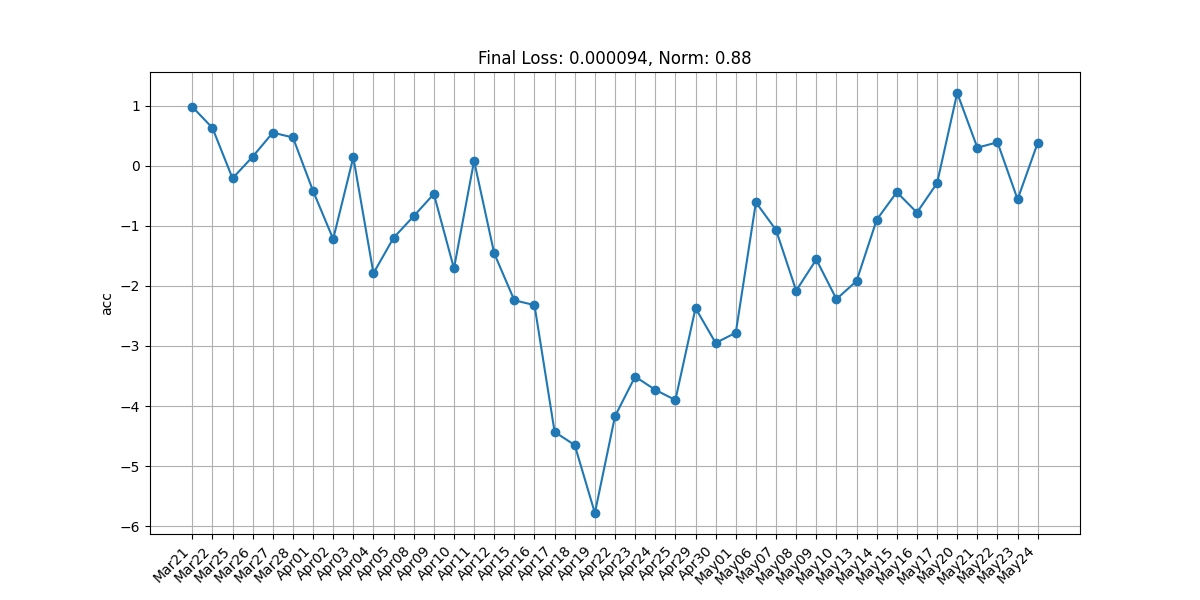
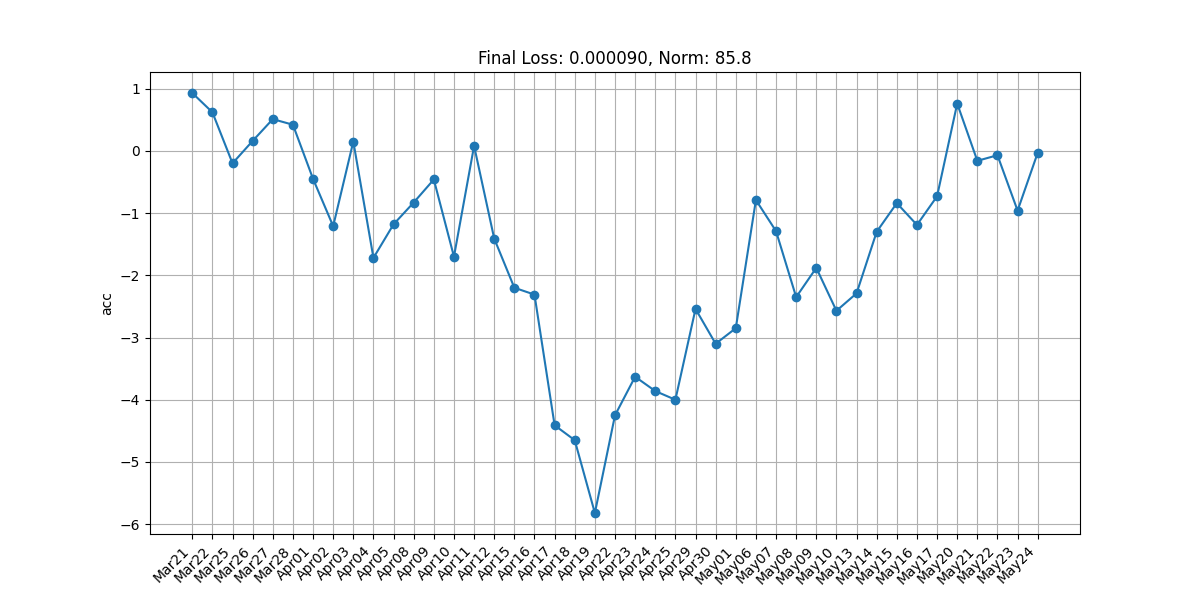
feat(model): enhance prediction logging and add dataframe output
Added datetime import and pandas DataFrame to store and print prediction results. Updated model evaluation to include detailed logging of predictions, true values, differences, and cumulative results. Adjusted normalization calculation and improved final output display.

diff --git a/diff.py b/diff.py
@@ -1,17 +1,17 @@
 import json
+from datetime import datetime
 from functools import reduce
 from pprint import pprint
-from datetime import datetime
 
+import pandas as pd
+import matplotlib.pyplot as plt
 import numpy as np
 import tensorflow as tf
+from keras import layers, models, optimizers
 from tensorflow import keras
-from keras import models, layers, optimizers
-import matplotlib.pyplot as plt
 
-# 乱数シードを固定
-np.random.seed(0)
-tf.random.set_seed(0)
+# np.random.seed(0)
+# tf.random.set_seed(0)
 
 # JSONファイルを読み込む
 try:
@@ -40,6 +40,10 @@ for strDate in dates:
     date = datetime.strptime(strDate, "%Y-%m-%d")
     shortdates.append(date)
 
+dfPrint = pd.DataFrame()
+dfPrint["date"] = shortdates
+DIV = data["div"]
+
 len_size = len(outputs)
 # Numpy配列に変換
 X = np.array(inputs)
@@ -67,13 +71,16 @@ differences_percentage = np.array([])
 # コールバッククラスの定義
 class FinalPredictionCallback(keras.callbacks.Callback):
     def on_train_end(self, logs=None):
-        global differences_percentage
+        global differences_percentage, dfPrint
 
         predictions = model.predict(X, verbose=0)
         scaled_predictions = predictions.flatten()
         # 差分をパーセントに直して表示
         differences_percentage = ((y - scaled_predictions) / scaled_predictions) * 100
         differences_percentage = np.round(differences_percentage, 2)
+
+        dfPrint["Predict"] = np.round(scaled_predictions * DIV, 2)
+        dfPrint["True"] = np.round(y * DIV, 2)
         pprint(differences_percentage)
 
 
@@ -94,7 +101,8 @@ history = model.fit(
 
 # モデルの評価
 loss = model.evaluate(X, y)
-pprint(f"Final Loss: {loss:.6f}")
+strLoss = f"{loss:.6f}"
+pprint(f"Final Loss: {strLoss}")
 
 # 累積結果を格納するリストを初期化
 cumulative_results = []
@@ -115,13 +123,19 @@ pprint(np.array(cumulative_results))
 arrNorm = cumulative_results[:-1]  # 最大最小個超えもあるため最後の値だけを削除
 min_val = min(arrNorm)
 max_val = max(arrNorm)
-norm = (final_result - min_val) / (max_val - min_val)
-print(f"Normalized_value: {norm:.2f}")
+norm = ((final_result - min_val) / (max_val - min_val)) * 100
+strNorm = f"{norm:.1f}"
 
+dfPrint["diff"] = differences_percentage
+dfPrint["acc"] = cumulative_results
+
+pprint(dfPrint)
+print(f"Norm: {strNorm}")
+print(f"Mean Absolute Error: {np.mean(np.abs(differences_percentage)):.2f}%")
 # グラフをプロット
 plt.figure(figsize=(12, 6))
 plt.plot([date.strftime("%b%d") for date in shortdates], cumulative_results, marker="o")
-plt.title(f"Final Loss: {loss:.6f}, Norm: {norm:.2f}")
+plt.title(f"Final Loss: {strLoss}, Norm: {strNorm}")
 plt.ylabel("acc")
 plt.grid(which="both")
 # x軸のラベルを45度回転させる
